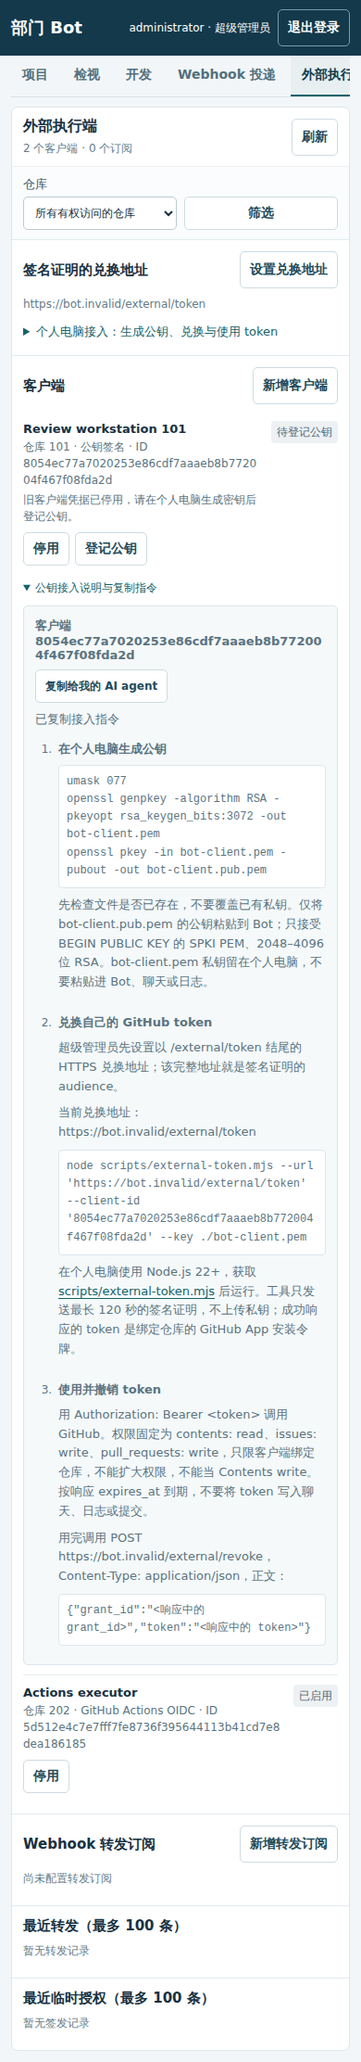
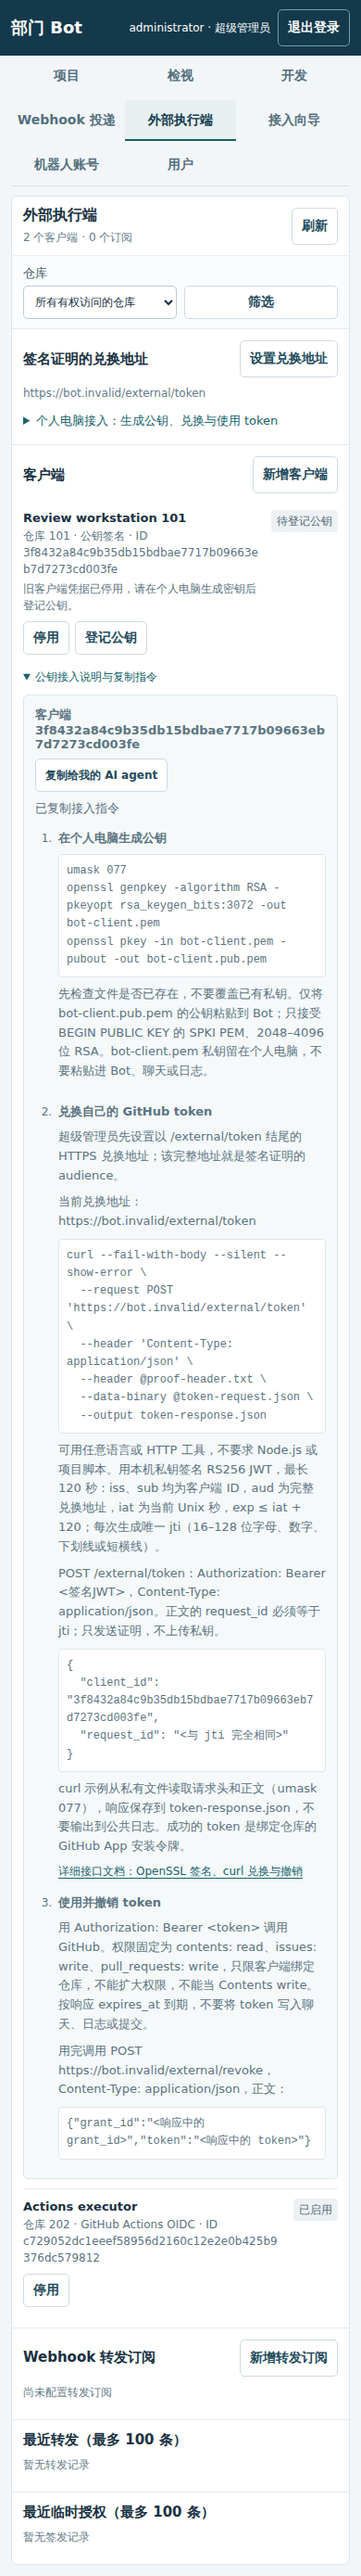
docs: explain external token exchange without a required client script

Changed region(s): [[0.0, 0.0, 1.0, 0.9928], [0.6769, 0.0931, 0.9231, 0.2172], [0.7077, 0.2792, 0.8923, 0.3103]]

diff --git a/static/external.js b/static/external.js
@@ -9,17 +9,19 @@ let saveExternal=null;
 let externalAudience='';
 const externalKeyCommands='umask 077\nopenssl genpkey -algorithm RSA -pkeyopt rsa_keygen_bits:3072 -out bot-client.pem\nopenssl pkey -in bot-client.pem -pubout -out bot-client.pub.pem';
 const externalTokenPermissions='contents: read、issues: write、pull_requests: write';
-function externalTokenCommand(client,audience){
+const externalTokenDocs='/docs/external-token-api.md';
+function externalTokenRequest(audience){
   const quote=value=>"'"+value.replaceAll("'","'\\''")+"'";
-  return 'node scripts/external-token.mjs --url '+quote(audience)+' --client-id '+quote(client.id)+' --key ./bot-client.pem';
+  return 'curl --fail-with-body --silent --show-error \\\n  --request POST '+quote(audience)+' \\\n  --header \'Content-Type: application/json\' \\\n  --header @proof-header.txt \\\n  --data-binary @token-request.json \\\n  --output token-response.json';
 }
 function externalAgentInstructions(client,audience){
   const exchange=audience
-    ?'兑换地址（同时是签名证明的 audience）：'+audience+'\n公钥登记完成后运行：\n'+externalTokenCommand(client,audience)
+    ?'兑换地址（同时是签名证明的 audience）：'+audience+'\n公钥登记完成后，用本机私钥签名，再通过任意 HTTP 客户端兑换。curl 请求示例：\n'+externalTokenRequest(audience)
     :'兑换地址尚未配置。请先让超级管理员在「外部执行端 → 设置兑换地址」保存以 /external/token 结尾的 HTTPS 地址，再从页面重新复制指令；不要猜测或编造 URL，配置完成前不要兑换。';
   return '请在我的个人电脑上完成部门 Bot 公钥接入。客户端 ID：'+client.id+'；绑定仓库 ID：'+client.repository_id+'。\n\n'
-    +'1. 确保本机有 OpenSSL 和 Node.js 22+。从 https://github.com/agent-CI-Infra/bot 获取现有 scripts/external-token.mjs，保持此相对路径，协议以该仓库 docs/external-executors.md 为准，不要另造兑换方法。先检查密钥文件是否已存在，不要覆盖已有私钥；如果没有，在本机私有目录运行：\n'+externalKeyCommands+'\n只将 bot-client.pub.pem 的公钥内容交给我，由我在这个客户端的「登记公钥／更换公钥」中保存，并等待我确认。只接受 BEGIN PUBLIC KEY 的 SPKI PEM、2048–4096 位 RSA。bot-client.pem 私钥始终留在我的电脑，不要粘贴到 Bot、聊天或日志。\n\n'
-    +'2. '+exchange+'\n脚本只发送最长 120 秒的签名证明，不上传私钥。不要在聊天、日志或提交中显示私钥、签名证明或响应 token；安全地保留响应里的 grant_id、token 和 expires_at 供本次任务使用。\n\n'
+    +'1. 可使用任意语言或工具，不需要 Node.js，也不要求下载项目脚本。详细接口规则和 OpenSSL＋curl 完整示例：https://github.com/agent-CI-Infra/bot/blob/main/docs/external-token-api.md（管理入口也可打开 '+new URL(externalTokenDocs,location.origin).href+'）。先检查密钥文件是否已存在，不要覆盖已有私钥；如果没有，在本机私有目录运行：\n'+externalKeyCommands+'\n只将 bot-client.pub.pem 的公钥内容交给我，由我在这个客户端的「登记公钥／更换公钥」中保存，并等待我确认。只接受 BEGIN PUBLIC KEY 的 SPKI PEM、2048–4096 位 RSA。bot-client.pem 私钥始终留在我的电脑，不要粘贴到 Bot、聊天或日志。\n\n'
+    +'2. '+exchange+'\n签名证明是最长 120 秒的 RS256 JWT：header 为 {"alg":"RS256","typ":"JWT"}；payload 中 iss 和 sub 都为 '+client.id+'，aud 必须与上面的完整兑换地址一致，iat 为当前 Unix 秒，exp 大于 iat 且不超过 iat + 120，jti 为每次新生成的 16–128 位字母、数字、下划线或短横线。JWT 三段都用无填充 base64url 编码，对 header.payload 用 RSA-SHA256 签名。\n'
+    +'在 umask 077 的私有目录中，将 Authorization: Bearer <签名JWT> 写入 proof-header.txt；将 '+JSON.stringify({client_id:client.id,request_id:'<与 jti 完全相同>'})+' 写入 token-request.json，再发送上面的 POST 请求。只发送签名证明，不上传私钥；不要开启 shell 跟踪或在聊天、日志、提交中显示私钥、签名证明或响应 token。请求不可重放，失败时先查看原因，确需重新兑换时生成新的 jti 和证明。安全地保留响应里的 grant_id、token 和 expires_at 供本次任务使用。\n\n'
     +'3. 成功响应里的 token 是该仓库的 GitHub App 安装令牌。以 Authorization: Bearer <token> 调用 GitHub，只操作绑定仓库。固定权限为 '+externalTokenPermissions+'，不能扩大权限，不能当 Contents write 使用；按 expires_at 到期。\n\n'
     +'4. 完成任务后，对'+(audience?' '+new URL('/external/revoke',audience).href+' ':'与兑换地址同源的 /external/revoke ')+'发送 POST，Content-Type: application/json，正文为 {"grant_id":"<响应中的 grant_id>","token":"<响应中的 token>"}，撤销本次令牌。不要输出实际 token。';
 }
@@ -38,9 +40,11 @@ function externalPublicKeyGuide(client=null,audience=externalAudience){
   const steps=element('ol','');
   const keyStep=element('li','');keyStep.append(element('strong','在个人电脑生成公钥'),element('pre',externalKeyCommands),element('p','先检查文件是否已存在，不要覆盖已有私钥。仅将 bot-client.pub.pem 的公钥粘贴到 Bot；只接受 BEGIN PUBLIC KEY 的 SPKI PEM、2048–4096 位 RSA。bot-client.pem 私钥留在个人电脑，不要粘贴进 Bot、聊天或日志。'));
   const exchangeStep=element('li','');exchangeStep.append(element('strong','兑换自己的 GitHub token'),element('p','超级管理员先设置以 /external/token 结尾的 HTTPS 兑换地址；该完整地址就是签名证明的 audience。'));
-  if(audience){exchangeStep.append(element('p','当前兑换地址：'+audience));if(client)exchangeStep.append(element('pre',externalTokenCommand(client,audience)));else exchangeStep.append(element('p','新增客户端并登记公钥后，在该客户端的接入说明中取得带真实客户端 ID 的命令。'));}
+  if(audience){exchangeStep.append(element('p','当前兑换地址：'+audience));if(client)exchangeStep.append(element('pre',externalTokenRequest(audience)));else exchangeStep.append(element('p','新增客户端并登记公钥后，使用该客户端 ID 按下面的接口规则兑换。'));}
   else exchangeStep.append(element('p','兑换地址尚未配置：请超级管理员先设置，再重新打开说明。配置前无法兑换，不要猜测 URL。'));
-  const scriptHelp=element('p','在个人电脑使用 Node.js 22+，获取 '),scriptLink=element('a','scripts/external-token.mjs');scriptLink.href='https://github.com/agent-CI-Infra/bot/blob/main/scripts/external-token.mjs';scriptLink.target='_blank';scriptLink.rel='noopener noreferrer';scriptHelp.append(scriptLink,document.createTextNode(' 后运行。工具只发送最长 120 秒的签名证明，不上传私钥；成功响应的 token 是绑定仓库的 GitHub App 安装令牌。'));exchangeStep.append(scriptHelp);
+  exchangeStep.append(element('p','可用任意语言或 HTTP 工具，不要求 Node.js 或项目脚本。用本机私钥签名 RS256 JWT，最长 120 秒：iss、sub 均为客户端 ID，aud 为完整兑换地址，iat 为当前 Unix 秒，exp ≤ iat + 120；每次生成唯一 jti（16–128 位字母、数字、下划线或短横线）。'),element('p','POST /external/token：Authorization: Bearer <签名JWT>，Content-Type: application/json。正文的 request_id 必须等于 jti；只发送证明，不上传私钥。'));
+  exchangeStep.append(element('pre',JSON.stringify({client_id:client?client.id:'<客户端ID>',request_id:'<与 jti 完全相同>'},null,2)),element('p','curl 示例从私有文件读取请求头和正文（umask 077），响应保存到 token-response.json，不要输出到公共日志。成功的 token 是绑定仓库的 GitHub App 安装令牌。'));
+  const docs=element('a','详细接口文档：OpenSSL 签名、curl 兑换与撤销');docs.href=externalTokenDocs;docs.target='_blank';docs.rel='noopener noreferrer';exchangeStep.append(docs);
   const tokenStep=element('li','');tokenStep.append(element('strong','使用并撤销 token'),element('p','用 Authorization: Bearer <token> 调用 GitHub。权限固定为 '+externalTokenPermissions+'，只限客户端绑定仓库，不能扩大权限，不能当 Contents write。按响应 expires_at 到期，不要将 token 写入聊天、日志或提交。'),element('p','用完调用 POST '+(audience?new URL('/external/revoke',audience).href:'/external/revoke（与兑换地址同源）')+'，Content-Type: application/json，正文：'),element('pre','{"grant_id":"<响应中的 grant_id>","token":"<响应中的 token>"}'));
   steps.append(keyStep,exchangeStep,tokenStep);body.append(steps);guide.append(body);return guide;
 }

diff --git a/src/server.ts b/src/server.ts
@@ -75,7 +75,8 @@ export function createControlPlane(options: Options) {
     }
     if (method === 'GET' && path === '/healthz') { store.get('SELECT 1'); respond(res, 200, { ok: true }); return; }
     const assets: Record<string, [string, string]> = { '/': ['index.html', 'text/html'], '/app.js': ['app.js', 'text/javascript'], '/style.css': ['style.css', 'text/css'],
-      '/views.js': ['views.js', 'text/javascript'], '/views.css': ['views.css', 'text/css'], '/external.js':['external.js','text/javascript'], '/project.js': ['project.js', 'text/javascript'], '/onboarding.js': ['onboarding.js', 'text/javascript'] };
+      '/views.js': ['views.js', 'text/javascript'], '/views.css': ['views.css', 'text/css'], '/external.js':['external.js','text/javascript'], '/project.js': ['project.js', 'text/javascript'], '/onboarding.js': ['onboarding.js', 'text/javascript'],
+      '/docs/external-token-api.md': ['../docs/external-token-api.md', 'text/plain'] };
     if (method === 'GET' && assets[path]) {
       const [name, mime] = assets[path]; const bytes = await readFile(join(options.staticDirectory, name));
       res.writeHead(200, { 'Content-Type': `${mime}; charset=utf-8` }); res.end(bytes); return;

diff --git a/docs/external-token-api.md b/docs/external-token-api.md
@@ -1,0 +1,147 @@
+# 个人电脑兑换 GitHub Token：接口与 curl 示例
+
+这是与语言和客户端实现无关的接口协议。不要求 Node.js，也不要求下载 Bot 的脚本。下文用 OpenSSL 生成签名，用 curl 发送 HTTP 请求，用 jq 构造和读取 JSON；也可以用自己熟悉的语言实现相同协议。GitHub Actions OIDC 使用另一种身份，见[外部执行端说明](external-executors.md#github-actions-oidc)，不要套用个人电脑公钥流程。
+
+## 接入前准备
+
+超级管理员先在「外部执行端 → 设置兑换地址」保存实际的完整 HTTPS 地址，路径必须是 `/external/token`，不能带查询参数、片段或用户信息。这个完整地址也是签名证明的 `aud`，必须逐字一致，不能只写域名。地址尚未配置时先联系超级管理员，不要猜一个域名。
+
+在管理页新增个人电脑客户端，绑定一个已启用的 GitHub App 仓库，取得客户端 ID。客户端不能自行指定别的仓库或扩展权限。在自己的电脑上准备密钥，**先检查文件是否存在，不要覆盖已有私钥**；如果没有，在私有目录执行：
+
+```sh
+umask 077
+openssl genpkey -algorithm RSA -pkeyopt rsa_keygen_bits:3072 -out bot-client.pem
+openssl pkey -in bot-client.pem -pubout -out bot-client.pub.pem
+```
+
+只把 `bot-client.pub.pem` 交给用户在该客户端的管理页登记，并等待登记成功。支持 2048–4096 位 RSA、SPKI PEM（`BEGIN PUBLIC KEY`），不接受 SSH 公钥格式。`bot-client.pem` 私钥始终留在个人电脑，不交给 Bot、聊天或日志。更换公钥后旧私钥立即不能用于新的兑换。
+
+## 1. 本机签名规则
+
+证明是 RS256 JWT，header 为 `{"alg":"RS256","typ":"JWT"}`。payload 的字段如下，均不可省略：
+
+| 字段 | 规则 |
+| --- | --- |
+| `iss`、`sub` | 都是管理页中的客户端 ID |
+| `aud` | 管理页配置的完整 HTTPS 兑换地址，字符串精确匹配 |
+| `iat` | 当前 Unix 秒，JSON 数字 |
+| `exp` | JSON 数字，大于 `iat` 且不超过 `iat + 120` |
+| `jti` | 每次请求新生成的唯一 ID，16–128 位字母、数字、下划线或短横线；推荐 24 随机字节的十六进制编码 |
+
+服务器允许五秒时钟偏差。将 header 和 payload 分别 UTF-8 JSON 编码，再做无填充 base64url 编码。用本机 RSA 私钥对 `base64url(header).base64url(payload)` 做 RSA-SHA256（PKCS#1 v1.5）签名，把无填充 base64url 签名作为 JWT 的第三段。不要使用 PS256、HS256、普通 base64 的 `+/=`，也不要添加外部密钥 URL。
+
+以下步骤在同一个 shell 会话中运行。先把两个占位值换成管理页中的实际值；本例需要 POSIX shell、OpenSSL、curl 7.76+ 和 jq，不需要 Bot 脚本。不要开启 `set -x`、curl `--verbose` 或 `--trace`，这些选项可能泄露证明或 Token。
+
+```sh
+# token-setup
+set -eu
+umask 077
+TOKEN_URL='<管理页配置的完整 HTTPS 兑换地址>'
+CLIENT_ID='<管理页中的客户端 ID>'
+KEY_FILE='./bot-client.pem'
+WORK_DIR=$(mktemp -d ./bot-token.XXXXXXXX)
+```
+
+```sh
+# token-sign
+b64url() { openssl base64 -A | tr '+/' '-_' | tr -d '='; }
+NOW=$(date +%s)
+REQUEST_ID=$(openssl rand -hex 24)
+HEADER=$(printf '%s' '{"alg":"RS256","typ":"JWT"}' | b64url)
+PAYLOAD=$(jq -cn --arg client "$CLIENT_ID" --arg aud "$TOKEN_URL" \
+  --arg id "$REQUEST_ID" --argjson now "$NOW" \
+  '{iss:$client,sub:$client,aud:$aud,iat:$now,exp:($now+120),jti:$id}')
+SIGNING_INPUT="$HEADER.$(printf '%s' "$PAYLOAD" | b64url)"
+SIGNATURE=$(printf '%s' "$SIGNING_INPUT" | openssl dgst -sha256 -sign "$KEY_FILE" | b64url)
+printf 'Authorization: Bearer %s.%s\n' "$SIGNING_INPUT" "$SIGNATURE" > "$WORK_DIR/proof-header.txt"
+jq -cn --arg client "$CLIENT_ID" --arg id "$REQUEST_ID" \
+  '{client_id:$client,request_id:$id}' > "$WORK_DIR/token-request.json"
+```
+
+## 2. POST /external/token
+
+请求必须有 `Authorization: Bearer <签名JWT>` 和 `Content-Type: application/json`。正文只包含 `client_id` 和 `request_id`；`request_id` 必须与证明中的 `jti` 完全相同。这是 JSON 凭据接口，不是标准 OAuth 表单端点，不要提交 `client_secret`、私钥或自行添加 `scope`。
+
+生成证明后立即发送，过期应重新签名。curl 从权限为 0600 的临时文件读取凭据，避免把实际证明放到进程命令行；不要加 `--location` 跟随重定向。
+
+```sh
+# token-exchange
+curl --fail-with-body --silent --show-error --request POST "$TOKEN_URL" \
+  --header 'Content-Type: application/json' \
+  --header @"$WORK_DIR/proof-header.txt" \
+  --data-binary @"$WORK_DIR/token-request.json" \
+  --output "$WORK_DIR/token-response.json"
+# 只显示元数据，不打印实际 Token。
+jq '{grant_id,token_type,expires_at,repository_id,permissions}' "$WORK_DIR/token-response.json"
+```
+
+HTTP 200 返回 JSON：
+
+```json
+{
+  "grant_id": "<本次签发 ID>",
+  "token": "<GitHub App 安装令牌，按密钥保护>",
+  "token_type": "Bearer",
+  "expires_at": "<GitHub 返回的到期时间>",
+  "repository_id": "<客户端绑定的仓库 ID>",
+  "permissions": {"contents":"read","issues":"write","pull_requests":"write"}
+}
+```
+
+`token` 是该客户端绑定仓库的 GitHub App 安装令牌，固定为 `contents: read`、`issues: write`、`pull_requests: write`。不能当 Contents write 使用，不能扩权限或切换仓库。令牌通常有效一小时，按实际 `expires_at` 到期；120 秒限制的是签名证明，而不是这个安装令牌。响应带 `Cache-Control: no-store`；仍需由接收端保护响应文件，不能打印进聊天、CI 日志或提交。
+
+## 3. 用 Bearer Token 调用 GitHub
+
+下面演示向绑定仓库的 Issue 或 PR 发普通评论。将 `COMMENT_URL` 中的占位值替换为该仓库和目标编号，不要请求别的仓库。也可按 GitHub API 使用相同 Bearer Token 读取内容或提交 PR 行内评论；检视使用 `COMMENT`，不自动合并，遵守仓库策略。
+
+```sh
+# token-use
+COMMENT_URL='https://api.github.com/repos/<owner>/<repo>/issues/<编号>/comments'
+jq -r '"Authorization: Bearer " + .token' "$WORK_DIR/token-response.json" > "$WORK_DIR/github-header.txt"
+printf '%s' '{"body":"检视完成：请在这里填写结论。"}' > "$WORK_DIR/comment.json"
+curl --fail-with-body --silent --show-error --request POST "$COMMENT_URL" \
+  --header @"$WORK_DIR/github-header.txt" \
+  --header 'Accept: application/vnd.github+json' \
+  --header 'Content-Type: application/json' \
+  --data-binary @"$WORK_DIR/comment.json" --output "$WORK_DIR/comment-response.json"
+```
+
+## 4. 用完撤销并清理
+
+向与兑换地址同源的 `POST /external/revoke` 提交 `grant_id` 和 `token`。不需要管理会话或再签一个 JWT，但必须是该次签发对应的 Token。撤销成功返回 `{"ok":true}`，重复撤销幂等。
+
+```sh
+# token-revoke
+REVOKE_URL="${TOKEN_URL%/external/token}/external/revoke"
+jq '{grant_id,token}' "$WORK_DIR/token-response.json" > "$WORK_DIR/revoke-request.json"
+curl --fail-with-body --silent --show-error --request POST "$REVOKE_URL" \
+  --header 'Content-Type: application/json' \
+  --data-binary @"$WORK_DIR/revoke-request.json" --output "$WORK_DIR/revoke-response.json"
+jq -e '.ok == true' "$WORK_DIR/revoke-response.json"
+```
+
+确认撤销后删除临时证明、请求头、Token 响应等文件，保留本机私钥供下次接入。即使评论调用失败也应执行撤销；若撤销网络失败，安全保留 `grant_id` 和 `token`，稍后重试，或等待 `expires_at`。停用客户端或更换公钥只阻止新的签发，不能代替对已发 Token 的撤销。
+
+```sh
+# token-cleanup
+rm -f "$WORK_DIR/proof-header.txt" "$WORK_DIR/token-request.json" \
+  "$WORK_DIR/token-response.json" "$WORK_DIR/github-header.txt" \
+  "$WORK_DIR/comment.json" "$WORK_DIR/comment-response.json" \
+  "$WORK_DIR/revoke-request.json" "$WORK_DIR/revoke-response.json"
+rmdir "$WORK_DIR"
+unset SIGNATURE SIGNING_INPUT PAYLOAD HEADER REQUEST_ID
+```
+
+## 失败与重试
+
+| HTTP / 错误码 | 处理方式 |
+| --- | --- |
+| `503 external_audience_not_configured` | 请超级管理员先设置完整 HTTPS 兑换地址 |
+| `401 external_unauthorized` | 检查客户端启用、公钥已登记、RSA 算法、客户端 ID、aud、时间、jti 与 request_id 一致；撤销请求则检查 grant_id 与 token 匹配 |
+| `400 invalid_request_id` | request_id 应为 16–128 位字母、数字、下划线或短横线 |
+| `409 identity_already_exchanged` | 该证明／请求已使用，不可重放；确需另一令牌时生成新 jti 并重新签名 |
+| `429 external_rate_limited` | 每客户端每小时最多 20 次兑换，失败签发也计入；稍后再试 |
+| `502 external_token_unavailable` | 检查 App 安装、权限和上游状态；可能已消耗该请求，不能原样重发 |
+| `502 external_revoke_unavailable` | 保存本次 grant_id 与 token，稍后重试撤销 |
+
+成功响应丢失也不能原样重放证明；服务端会持久拒绝重复请求。不要用 curl 自动重试兑换 POST。现有 `scripts/external-token.mjs` 只是这一协议的可选客户端实现，不是使用接口的前提。

diff --git a/docs/external-executors.md b/docs/external-executors.md
@@ -36,18 +36,9 @@ openssl pkey -in bot-client.pem -pubout -out bot-client.pub.pem
 
 支持 RSA 2048–4096 位、SPKI PEM 公钥（`BEGIN PUBLIC KEY`），不接受私钥或 SSH 格式。Bot 保存公钥与指纹，不生成、接收或分发客户端私钥。每个客户端仍绑定一个仓库。
 
-取得页面中的客户端 ID 后，在个人电脑用仓库提供的 Node.js 22+ 小工具兑换；URL 必须与管理页登记的兑换地址完全一致：
+取得页面中的客户端 ID 后，用任意语言或 HTTP 工具按下述接口规则兑换，不要求 Node.js 或下载项目脚本。完整的[接口说明与 OpenSSL＋curl 示例](external-token-api.md)包含本机签名、POST 兑换、调用 GitHub 和撤销；URL 必须与管理页登记的兑换地址完全一致。`scripts/external-token.mjs` 仅作为可选实现保留。
 
-```sh
-node scripts/external-token.mjs \
-  --url https://bot.example/external/token \
-  --client-id '<客户端ID>' \
-  --key ./bot-client.pem
-```
-
-示例域名仅作占位，实际使用管理页中的地址。工具检查私钥文件权限，在内存中签名并发送证明，不上传私钥；成功时 stdout 为含 GitHub Token 的 JSON，可直接交给检视工具，避免写入公共日志。除 Node.js 自带模块外无需安装额外客户端依赖。
-
-自行接入时使用 RS256 签名 JWT，header 为 `alg: RS256`、`typ: JWT`，payload：
+使用 RS256 签名 JWT，header 为 `alg: RS256`、`typ: JWT`，payload：
 
 ```json
 {
